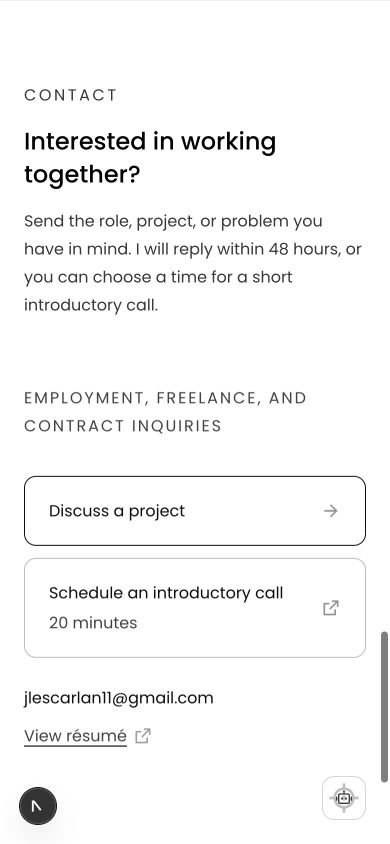
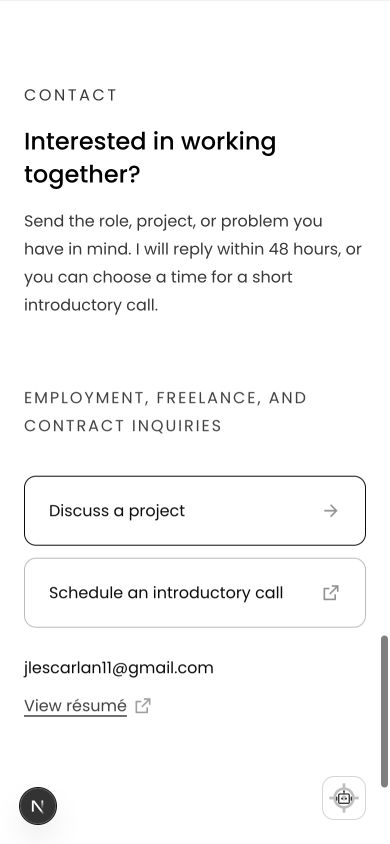
Simplify introductory call action

diff --git a/src/features/contact/ContactSection.tsx b/src/features/contact/ContactSection.tsx
@@ -66,14 +66,9 @@ export default function ContactSection({
                 rel="noopener noreferrer"
                 className="group inline-flex min-h-16 w-full items-center justify-between rounded-xl border border-surface-strong px-6 py-5 transition-colors duration-200 hover:border-foreground sm:h-[92px] sm:w-[312px] sm:shrink-0 sm:py-0"
               >
-                <span className="flex flex-col gap-0.5">
-                  <Typography variant="label" as="span" className="font-medium">
-                    {content.booking.label}
-                  </Typography>
-                  <Typography variant="caption" as="span" className="text-subtle-foreground">
-                    {content.booking.duration}
-                  </Typography>
-                </span>
+                <Typography variant="label" as="span" className="font-medium">
+                  {content.booking.label}
+                </Typography>
                 <RiExternalLinkLine
                   aria-hidden="true"
                   className="size-5 opacity-45 transition-all duration-200 group-hover:-translate-y-0.5 group-hover:translate-x-0.5 group-hover:opacity-100"

diff --git a/src/features/contact/content.ts b/src/features/contact/content.ts
@@ -3,7 +3,6 @@ import { isRenderableExternalUrl } from '@/shared/lib/project';
 export interface BookingDetails {
   url: string | null;
   label: string;
-  duration: string;
 }
 
 export interface ContactContent {
@@ -52,7 +51,6 @@ export const contactContent: ContactContent = {
   resumeHref: '/John_Lester_Escarlan_Resume.pdf',
   booking: {
     url: resolveBookingUrl(process.env.NEXT_PUBLIC_BOOKING_URL),
-    label: 'Schedule an introductory call',
-    duration: '20 minutes'
+    label: 'Schedule an introductory call'
   }
 };

diff --git a/src/features/contact/ContactSection.test.tsx b/src/features/contact/ContactSection.test.tsx
@@ -48,7 +48,7 @@ describe('ContactSection', () => {
 
     expect(
       screen.getByRole('link', {
-        name: `${content.booking.label} ${content.booking.duration} (opens in new tab)`
+        name: `${content.booking.label} (opens in new tab)`
       })
     ).toMatchObject({
       href: content.booking.url,

diff --git a/design-qa.md b/design-qa.md
@@ -1,20 +1,20 @@
 **Design QA**
 
-- Source visual truth: `/var/folders/mh/rxmkm5jd2s1d952s608rwwy40000gn/T/codex-clipboard-973e97d5-51fe-4424-8151-0bdaa135024f.png`
+- Source visual truth: `/var/folders/mh/rxmkm5jd2s1d952s608rwwy40000gn/T/codex-clipboard-7f7ce1dc-c7e2-4056-bcda-351df584bba1.png` (focused contact-control crop), with the earlier full-page redesign reference retained as composition context
 - Implementation screenshots: `qa-contact-desktop.png`, `qa-chat-desktop.png`, `qa-contact-mobile.png`, `qa-chat-mobile.png`
 - Desktop viewport: 1470 × 956 CSS px at device scale factor 1
 - Mobile viewport: 390 × 844 CSS px at device scale factor 1
-- Source pixels: 2940 × 1912; normalized as a 2× capture to 1470 × 956 CSS px
+- Source pixels: 1204 × 460 focused crop; implementation was inspected at native 1470 × 956 CSS px and with a focused control comparison
 - Implementation pixels: 1470 × 956 desktop and 390 × 844 mobile
 - State: light theme, contact section at its top scroll position; chatbot checked closed and open
 
 **Full-view comparison evidence**
 
-The source and desktop implementation were opened together after density normalization. The contact container, 1024 px content rail, footer boundary, two CTA proportions, secondary links, footer navigation, launcher label, and bottom-right assistant trigger align with the reference. The user-requested rounded corners intentionally supersede the square corners visible in the original screenshot. The black strip at the top of the source belongs to the preceding page region and is outside the contact component. The implementation screenshot contains the development-only Next.js indicator at bottom left; it is not included in production.
+The focused source crop and the refreshed desktop implementation were opened together. The requested content change is present without shifting the contact container, two CTA proportions, secondary links, footer boundary, launcher label, or bottom-right assistant trigger. The implementation screenshot contains the development-only Next.js indicator at bottom left; it is not included in production.
 
 **Focused region comparison evidence**
 
-- Contact controls: the 256 × 92 px primary CTA, 312 × 92 px booking CTA, 12 px inter-card gap, 12 px corner radius, icon placement, and secondary-action baseline were checked at native CSS scale.
+- Contact controls: the 256 × 92 px primary CTA, 312 × 92 px booking CTA, 12 px inter-card gap, 12 px corner radius, vertically centered booking label, icon placement, and secondary-action baseline were checked at native CSS scale. “20 minutes” is absent visually and from the accessible link name.
 - Chat launcher: the bordered uppercase label, dismiss control, 44 × 44 launcher, and icon treatment were checked against the reference.
 - Open chatbot: no open-state source was supplied, so it was checked for consistency with the updated system: rounded monochrome surfaces, Poppins typography, hairline borders, restrained status treatment, and matching iconography. The outer panel uses a 16 px radius and nested controls use 12 px.
 - Mobile: contact controls stack at full width and the modal uses equal 24 px side gutters without horizontal overflow.
@@ -26,7 +26,7 @@ The source and desktop implementation were opened together after density normali
 - Spacing and layout: desktop alignment and section/footer rhythm match the normalized source; mobile stacking remains readable and touch-safe.
 - Colors and tokens: the implementation uses the existing foreground/background and surface-border tokens in light and dark themes.
 - Image and icon fidelity: no raster assets are required in this section. All arrows, external-link marks, close/send controls, focus frame, status dot, and robot mark use the installed Remix Icon set.
-- Copy and content: source contact copy is preserved. Chat labels remain concise and task-specific.
+- Copy and content: “20 minutes” was removed from the booking CTA and its content model as requested. All other contact and chat copy remains unchanged.
 
 **Comparison history**
 
@@ -34,6 +34,7 @@ The source and desktop implementation were opened together after density normali
 2. Mobile pass found asymmetric modal gutters caused by the old 320 px maximum width. The cap was removed so the dialog uses the intended `100vw - 3rem` width with equal gutters.
 3. Post-fix desktop and mobile captures show no remaining P0/P1/P2 issues. Browser console errors: none.
 4. User follow-up identified the remaining square corners. Contact cards and chatbot surfaces were updated to a consistent 12/16 px radius system, then recaptured on desktop and mobile with no overflow or clipping.
+5. User follow-up removed the redundant “20 minutes” line. The booking label was vertically centered, desktop and mobile evidence was recaptured, and the accessible link name was verified without the duration.
 
 **Primary interactions tested**
 
